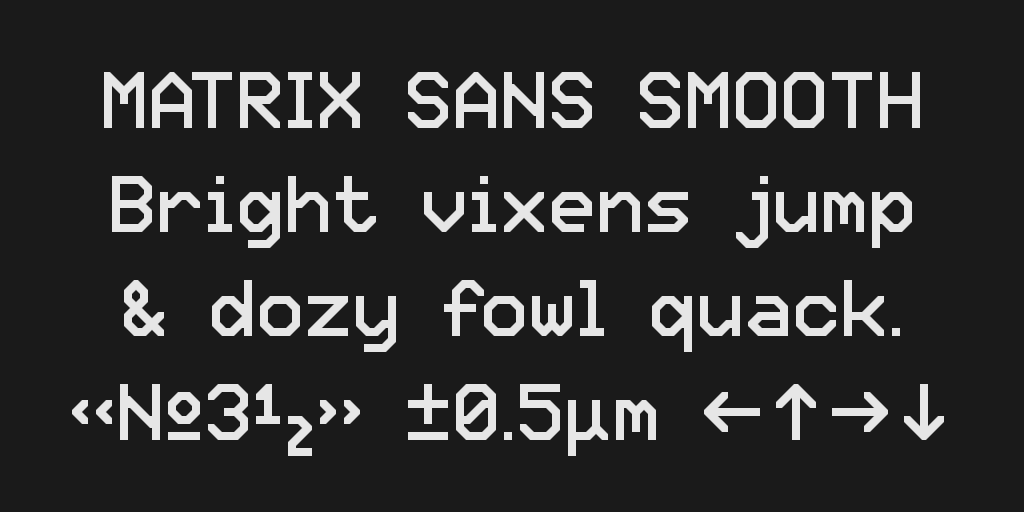
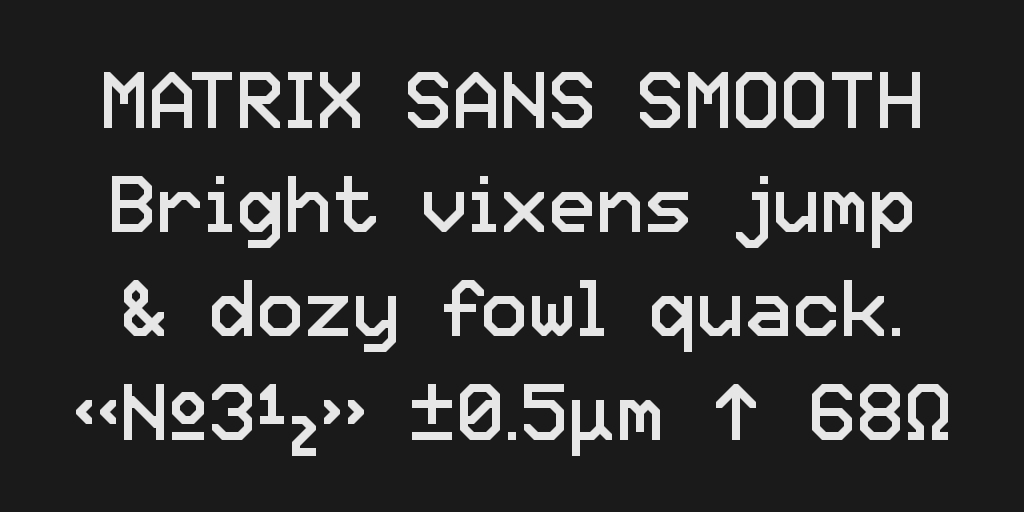
Tweak Smooth sample image

Changed region(s): [[0.6875, 0.75, 0.9375, 0.875], [0.0625, 0.75, 0.375, 0.9062], [0.4062, 0.75, 0.6562, 0.875]]

diff --git a/scripts/image3.py b/scripts/image3.py
@@ -167,7 +167,7 @@ if __name__ == "__main__":
 	FONT_PATH = "fonts/otf/MatrixSansVideo-Regular.otf"
 	make_image(["MATRIX SANS VIDEO","▶ How quickly daft","jumping zebras vex!","23/04/1987 12:56 PM"], [216/255, 216/255, 216/255], [0, 0, 160/255])
 	FONT_PATH = "fonts/otf/MatrixSansSmooth-Regular.otf"
-	make_image(["MATRIX SANS SMOOTH", "Bright vixens jump", "& dozy fowl quack.", "«№3½» ±0.5µm ←↑→↓"], [0.9, 0.9, 0.9], [0.1, 0.1, 0.1])
+	make_image(["MATRIX SANS SMOOTH", "Bright vixens jump", "& dozy fowl quack.", "«№3½» ±0.5µm ↑ 68Ω"], [0.9, 0.9, 0.9], [0.1, 0.1, 0.1])
 	# Save output, using the "--output" flag location
 	saveImage(args.output)
 	# Print done in the terminal
